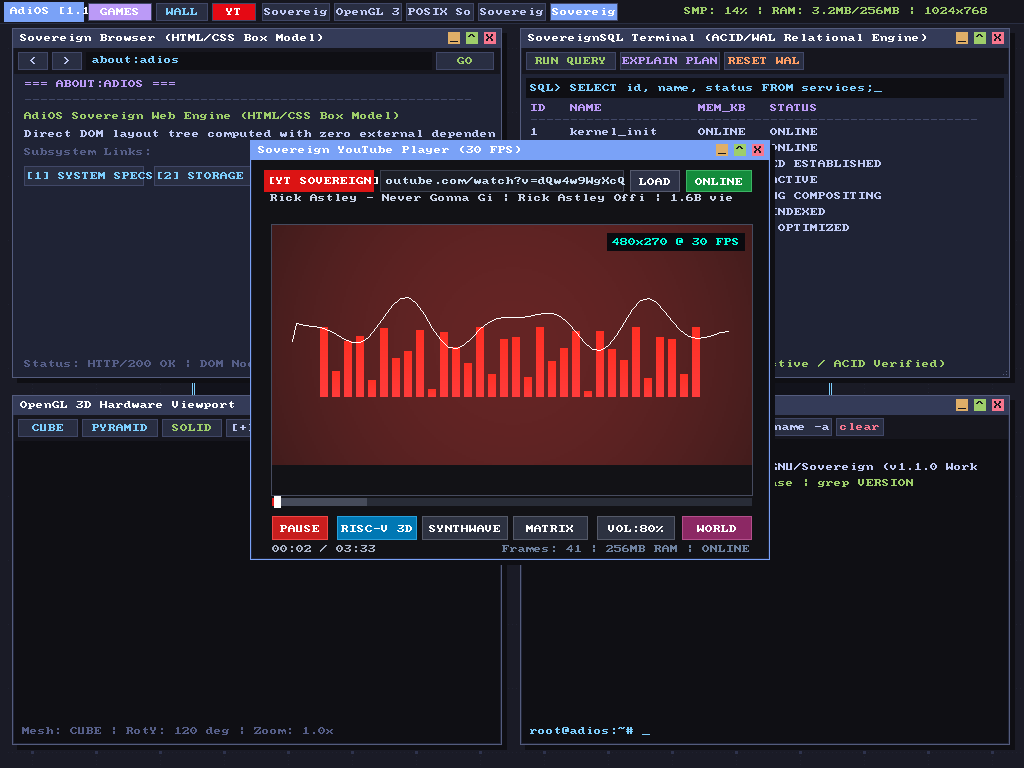
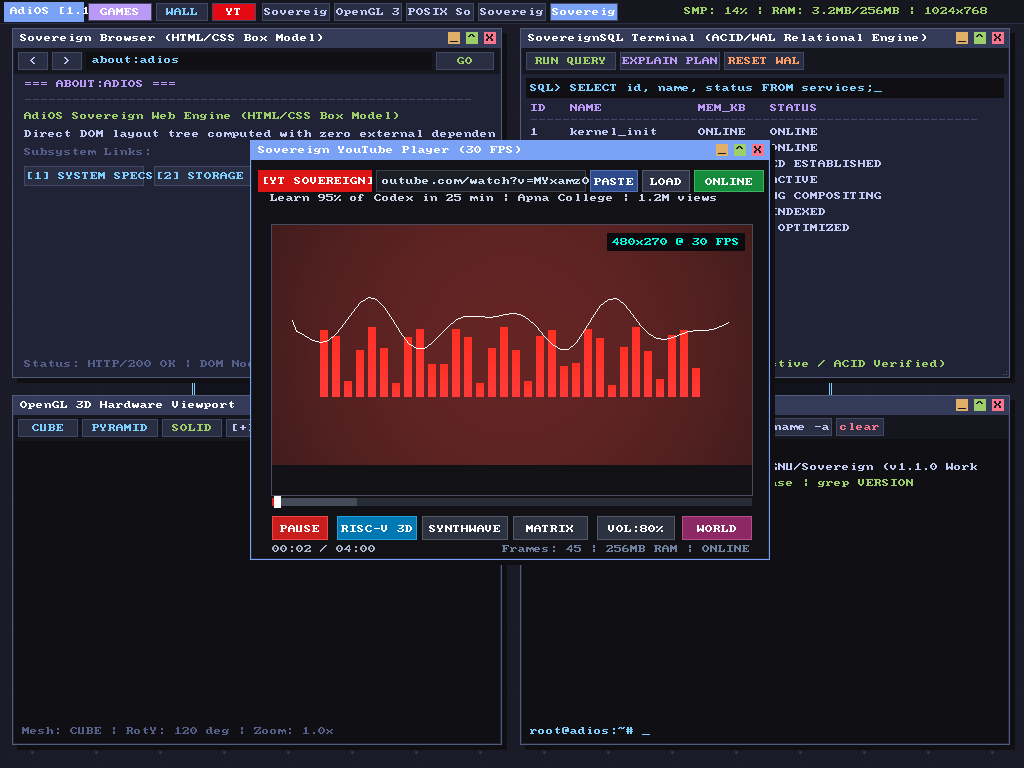
feat(ui): add system clipboard paste button and Ctrl+V handling in youtube player

Changed region(s): [[0.3125, 0.4062, 0.6875, 0.5], [0.4062, 0.2188, 0.75, 0.2812], [0.25, 0.2188, 0.375, 0.2812]]

diff --git a/desktop/youtube_player.py b/desktop/youtube_player.py
@@ -19,6 +19,46 @@ from vm.vpu import VPU, CMD_PLAY, CMD_PAUSE, CMD_STOP, CMD_SEEK, STATUS_PLAYING
 from net.yt_relay import YouTubeStreamRelay, WORLD_VIDEOS, extract_youtube_id
 
 
+def get_system_clipboard_text() -> str:
+    """
+    Reads ASCII string from host operating system clipboard with zero external dependencies.
+    Supports Windows Win32 API via standard ctypes, with Tkinter fallback.
+    """
+    # 1. Direct Windows Win32 API via standard ctypes
+    try:
+        import ctypes
+        from ctypes import wintypes
+        user32 = ctypes.windll.user32
+        kernel32 = ctypes.windll.kernel32
+        if user32.OpenClipboard(None):
+            h_data = user32.GetClipboardData(13)  # CF_UNICODETEXT
+            if h_data:
+                kernel32.GlobalLock.restype = wintypes.LPCWSTR
+                ptr = kernel32.GlobalLock(h_data)
+                txt = str(ptr) if ptr else ""
+                kernel32.GlobalUnlock(h_data)
+                user32.CloseClipboard()
+                if txt:
+                    return txt
+            user32.CloseClipboard()
+    except Exception:
+        pass
+
+    # 2. Tkinter clipboard fallback
+    try:
+        import tkinter as tk
+        root = tk.Tk()
+        root.withdraw()
+        txt = root.clipboard_get()
+        root.destroy()
+        if txt:
+            return txt
+    except Exception:
+        pass
+
+    return ""
+
+
 class YouTubePlayerApp:
     """
     Sovereign YouTube 30 FPS Windowed Player Application.
@@ -56,10 +96,11 @@ class YouTubePlayerApp:
         self.video_h = 270
         
         # Top Header Rectangles
-        self.rect_brand = (12, 10, 110, 22)
-        self.rect_url   = (128, 10, 244, 22)
-        self.rect_load  = (378, 10, 50, 22)
-        self.rect_net   = (434, 10, 66, 22)
+        self.rect_brand = (6, 10, 114, 22)
+        self.rect_url   = (124, 10, 210, 22)
+        self.rect_paste = (338, 10, 48, 22)
+        self.rect_load  = (390, 10, 48, 22)
+        self.rect_net   = (442, 10, 70, 22)
         
         # Progress Scrub Bar Layout
         self.scrub_x = 20
@@ -144,13 +185,43 @@ class YouTubePlayerApp:
         self.volume = levels[(curr_idx + 1) % len(levels)]
         self.vpu.write32(0x30000028, self.volume)
 
+    def paste_clipboard_url(self) -> bool:
+        """Pastes URL directly from system clipboard into the URL bar."""
+        txt = get_system_clipboard_text().strip()
+        if txt:
+            clean = "".join(ch for ch in txt if 32 <= ord(ch) <= 126)
+            if clean:
+                self.url_text = clean
+                self.url_focused = True
+                self.status_message = "URL Pasted from clipboard."
+                return True
+        return False
+
     def handle_key(self, k: str) -> bool:
-        """Handles keyboard typing into the URL bar."""
+        """Handles keyboard typing into the URL bar with paste and clear support."""
         if not self.url_focused:
             if k == " ":
                 self.toggle_play()
                 return True
             return False
+
+        # Ctrl+V / Paste string
+        if k in ("\x16", "PASTE"):
+            self.paste_clipboard_url()
+            return True
+
+        # Ctrl+A / Escape / Clear
+        if k in ("\x01", "\x1b", "CLEAR"):
+            self.url_text = ""
+            return True
+
+        # Pasted string from event dispatcher
+        if len(k) > 1 and all(32 <= ord(c) <= 126 for c in k):
+            if k.startswith("http://") or k.startswith("https://") or "youtube" in k:
+                self.url_text = k
+            else:
+                self.url_text += k
+            return True
 
         if k in ("\r", "\n"):
             self.load_active_url()
@@ -160,7 +231,7 @@ class YouTubePlayerApp:
                 self.url_text = self.url_text[:-1]
             return True
         elif len(k) == 1 and 32 <= ord(k) <= 126:
-            if len(self.url_text) < 120:
+            if len(self.url_text) < 180:
                 self.url_text += k
             return True
         return False
@@ -173,6 +244,12 @@ class YouTubePlayerApp:
             return True
         else:
             self.url_focused = False
+
+        # 1.5 Paste Button Click
+        if self._in_rect(local_x, local_y, self.rect_paste):
+            if self.paste_clipboard_url():
+                self.load_active_url()
+            return True
 
         # 2. Load Button Click
         if self._in_rect(local_x, local_y, self.rect_load):
@@ -258,6 +335,9 @@ class YouTubePlayerApp:
         if self.url_focused:
             disp_url += "_"
         self._draw_text(surface_buffer, surf_w, rx + 6, ry + 7, disp_url, (200, 220, 240))
+
+        # Paste button
+        self._draw_button(surface_buffer, surf_w, self.rect_paste, "PASTE", (45, 75, 140, 255))
 
         # Load button
         self._draw_button(surface_buffer, surf_w, self.rect_load, "LOAD", (45, 50, 70, 255))

diff --git a/vm/display.py b/vm/display.py
@@ -220,6 +220,24 @@ class DisplayWindow:
         self.mouse_event = 1
 
     def _on_key(self, event):
+        # Check for Ctrl+V clipboard paste
+        is_ctrl_v = (event.char == "\x16") or (event.keysym.lower() == "v" and (event.state & 4))
+        if is_ctrl_v:
+            clip_text = None
+            try:
+                clip_text = self.root.clipboard_get()
+            except Exception:
+                pass
+            if not clip_text:
+                try:
+                    from desktop.youtube_player import get_system_clipboard_text
+                    clip_text = get_system_clipboard_text()
+                except Exception:
+                    pass
+            if clip_text and self.on_key_cb:
+                self.on_key_cb(clip_text)
+                return
+
         # 1. Forward to master desktop direct callback
         if self.on_key_cb:
             if event.char and len(event.char) == 1 and 32 <= ord(event.char) <= 126:

diff --git a/tests/test_net_driver_youtube.py b/tests/test_net_driver_youtube.py
@@ -185,6 +185,19 @@ class TestNetDriverYouTube(unittest.TestCase):
         app.select_catalog_video(5)
         self.assertIn("Big Buck Bunny", app.relay.channel_info["title"])
 
+        # Test Pasting Full URL via handle_key string
+        app.url_focused = True
+        app.handle_key("CLEAR")
+        self.assertEqual(app.url_text, "")
+        app.handle_key("https://www.youtube.com/watch?v=MYxamzOcVbs")
+        self.assertEqual(app.url_text, "https://www.youtube.com/watch?v=MYxamzOcVbs")
+        app.handle_key("\r")
+        self.assertIn("Codex", app.relay.channel_info["title"])
+
+        # Test [PASTE] button click
+        clicked = app.handle_click(app.rect_paste[0] + 5, app.rect_paste[1] + 5)
+        self.assertTrue(clicked)
+
     def test_07_youtube_player_render_and_vpu_step(self):
         """Verify window rendering and VPU deterministic 30 FPS pacing."""
         vpu = VPU(width=480, height=240, fps=30)
